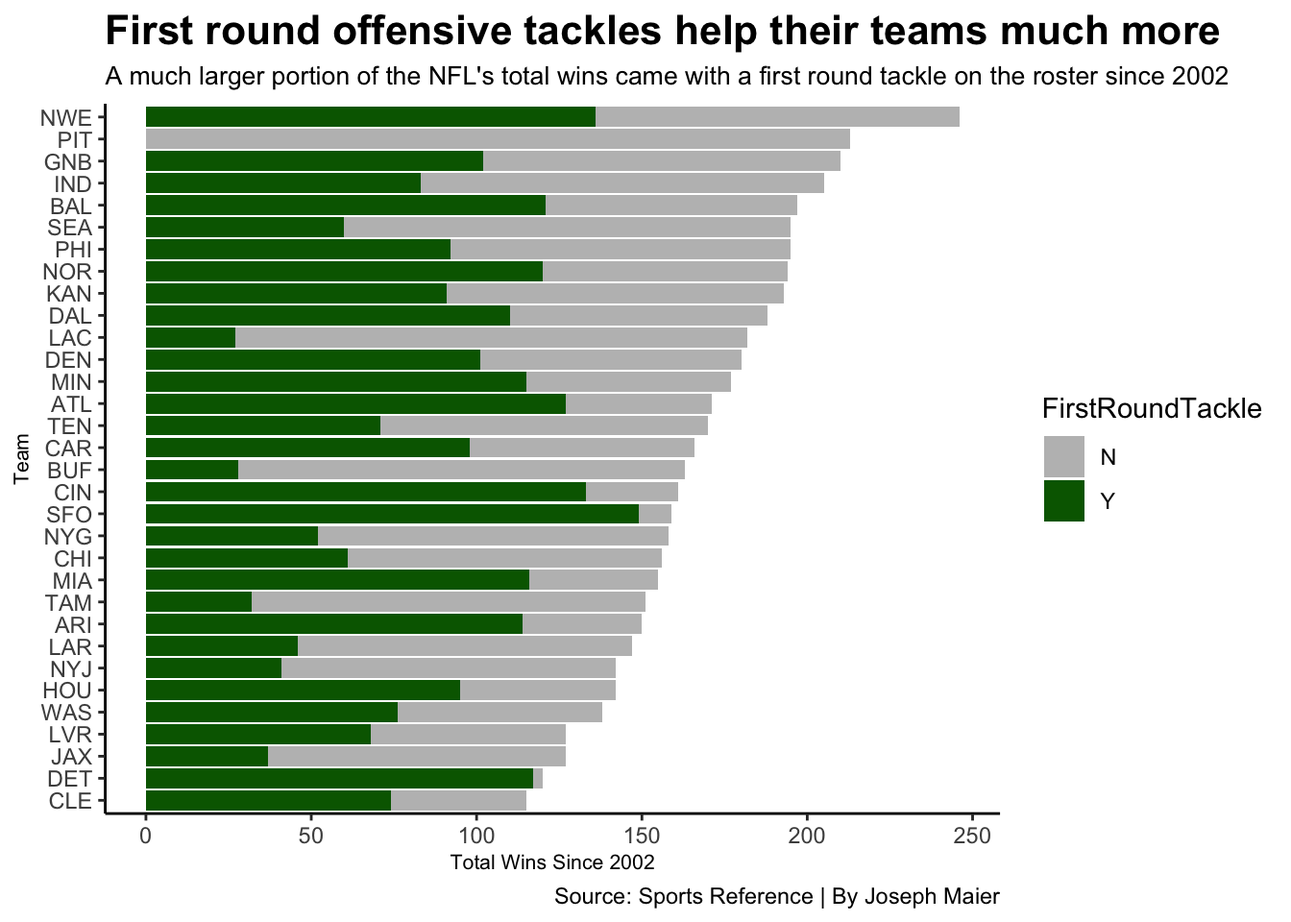
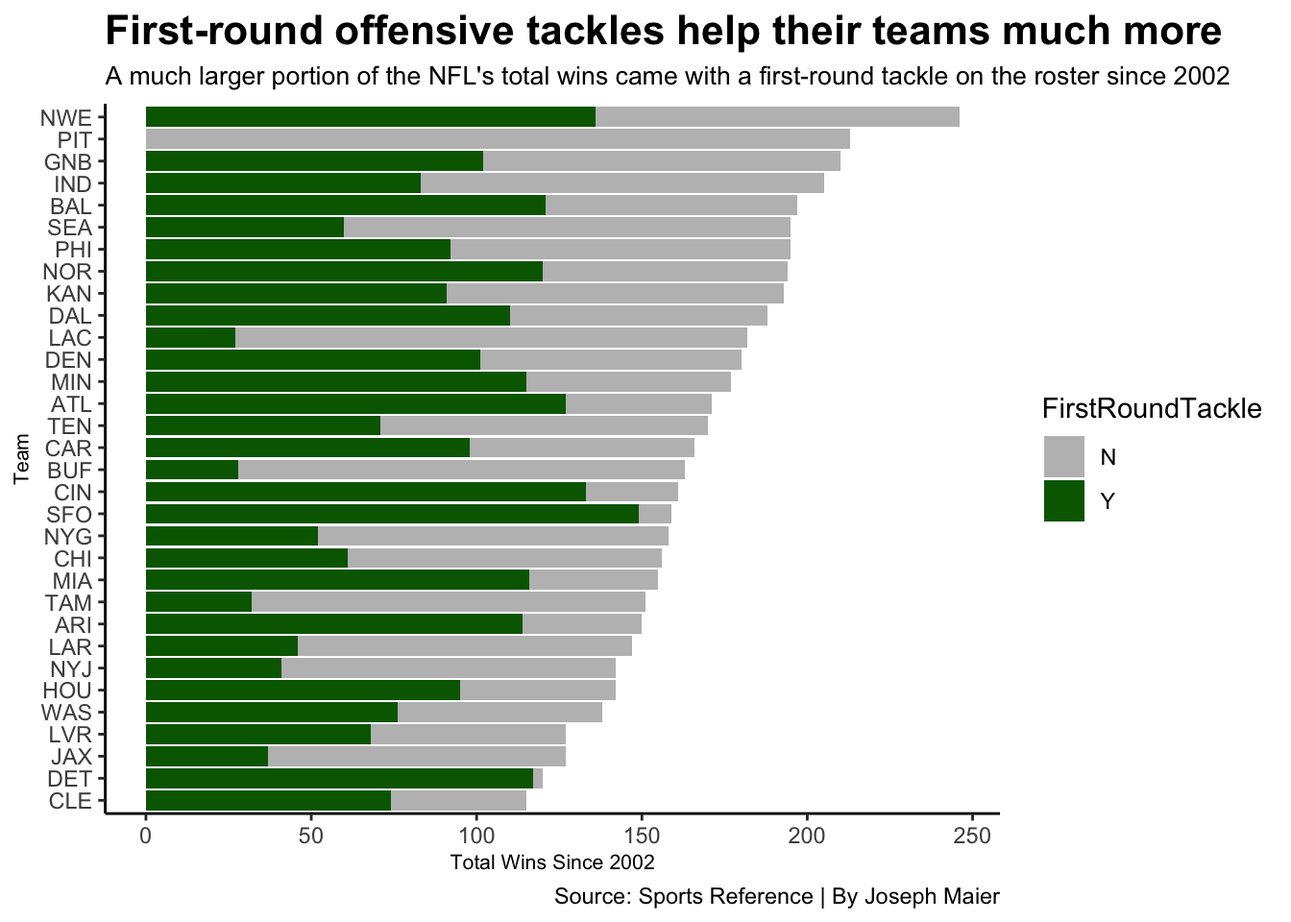
Final

Changed region(s): [[0.1562, 0.0, 0.9688, 0.0938]]

diff --git a/posts/first-round-running-backs/index.html b/posts/first-round-running-backs/index.html
@@ -9,7 +9,7 @@
 <meta name="author" content="Joseph Maier">
 <meta name="dcterms.date" content="2022-04-16">
 
-<title>Joseph Maier’s Blog - Are first round running backs worth the price?</title>
+<title>Joseph Maier’s Blog - Are first-round running backs worth the price?</title>
 <style>
 code{white-space: pre-wrap;}
 span.smallcaps{font-variant: small-caps;}
@@ -179,7 +179,7 @@ code span.wa { color: #60a0b0; font-weight: bold; font-style: italic; } /* Warni
 
 <header id="title-block-header" class="quarto-title-block default">
 <div class="quarto-title">
-<h1 class="title">Are first round running backs worth the price?</h1>
+<h1 class="title">Are first-round running backs worth the price?</h1>
   <div class="quarto-categories">
     <div class="quarto-category">nfl</div>
     <div class="quarto-category">runningbacks</div>
@@ -211,11 +211,11 @@ code span.wa { color: #60a0b0; font-weight: bold; font-style: italic; } /* Warni
 
 </header>
 
-<p>With the NFL draft just weeks away, it’s officially mock draft season. It’s also that time of year where both fans and so-called draft experts debate the respective value of each position.</p>
-<p>Over the last several years, first round running backs in particular have been the object of much discussion. Is drafting a running back in the first round worth it? The answer has largely been no. But just how true is that assumption? Is it based measurable statistics?</p>
+<p>With the NFL draft just weeks away, it’s officially mock draft season. It’s also that time of year when both fans and so-called draft experts debate the respective value of each position.</p>
+<p>Over the last several years, first-round running backs in particular have been the object of much discussion. Is drafting a running back in the first round worth it? The answer has largely been no. But just how true is that assumption? Is it based on measurable statistics?</p>
 <p>Let’s dive into some data to see for ourselves.</p>
-<p>First off, when talking about first round running backs, we’ll only focus on players playing on the team that originally drafted them. Once players go elsewhere, the organization that drafted them no longer reaps the benefits of using a pick on them.</p>
-<p>Why do NFL teams care about drafting good player? Winning games of course. So does drafting a running back in the first round directly correlate to victories? Not so much.</p>
+<p>First off, when talking about first-round running backs, we’ll only focus on players playing on the team that originally drafted them. Once players go elsewhere, their original team no longer reaps the benefits of using a pick on them.</p>
+<p>Why do NFL teams care about drafting good players? Winning games of course. So does drafting a running back in the first round directly correlate to victories? Not so much.</p>
 <div class="cell">
 <details>
 <summary>Code</summary>
@@ -229,13 +229,13 @@ code span.wa { color: #60a0b0; font-weight: bold; font-style: italic; } /* Warni
 <span id="cb1-8"><a href="#cb1-8" aria-hidden="true" tabindex="-1"></a><span class="fu">ggplot</span>() <span class="sc">+</span> </span>
 <span id="cb1-9"><a href="#cb1-9" aria-hidden="true" tabindex="-1"></a>  <span class="fu">geom_bar</span>(<span class="at">data=</span>draft, <span class="fu">aes</span>(<span class="at">x=</span><span class="fu">reorder</span>(Team, W), <span class="at">weight=</span>W, <span class="at">fill=</span>FirstRoundRB)) <span class="sc">+</span> </span>
 <span id="cb1-10"><a href="#cb1-10" aria-hidden="true" tabindex="-1"></a>  <span class="fu">coord_flip</span>() <span class="sc">+</span></span>
-<span id="cb1-11"><a href="#cb1-11" aria-hidden="true" tabindex="-1"></a>  <span class="fu">scale_fill_manual</span>(<span class="at">values=</span><span class="fu">c</span>(<span class="st">"grey"</span>, <span class="st">"blue"</span>)) <span class="sc">+</span></span>
+<span id="cb1-11"><a href="#cb1-11" aria-hidden="true" tabindex="-1"></a>  <span class="fu">scale_fill_manual</span>(<span class="at">values=</span><span class="fu">c</span>(<span class="st">"grey"</span>, <span class="st">"#0047AB"</span>)) <span class="sc">+</span></span>
 <span id="cb1-12"><a href="#cb1-12" aria-hidden="true" tabindex="-1"></a>    <span class="fu">labs</span>(</span>
 <span id="cb1-13"><a href="#cb1-13" aria-hidden="true" tabindex="-1"></a>    <span class="at">x=</span><span class="st">"Team"</span>, </span>
 <span id="cb1-14"><a href="#cb1-14" aria-hidden="true" tabindex="-1"></a>    <span class="at">y=</span><span class="st">"Total Wins Since 2002"</span>, </span>
-<span id="cb1-15"><a href="#cb1-15" aria-hidden="true" tabindex="-1"></a>       <span class="at">title=</span><span class="st">"First round running backs rarely contribute to winning teams"</span>, </span>
-<span id="cb1-16"><a href="#cb1-16" aria-hidden="true" tabindex="-1"></a>    <span class="at">subtitle=</span><span class="st">"Since 2002, only six NFL teams have had a first round running back they drafted on their roster in over </span></span>
-<span id="cb1-17"><a href="#cb1-17" aria-hidden="true" tabindex="-1"></a><span class="st">half of their total wins."</span>, </span>
+<span id="cb1-15"><a href="#cb1-15" aria-hidden="true" tabindex="-1"></a>       <span class="at">title=</span><span class="st">"First-round running backs rarely contribute to winning teams"</span>, </span>
+<span id="cb1-16"><a href="#cb1-16" aria-hidden="true" tabindex="-1"></a>    <span class="at">subtitle=</span><span class="st">"Since 2002, only six NFL teams have had a first-round running back that they drafted on their roster in over </span></span>
+<span id="cb1-17"><a href="#cb1-17" aria-hidden="true" tabindex="-1"></a><span class="st">half their total wins."</span>, </span>
 <span id="cb1-18"><a href="#cb1-18" aria-hidden="true" tabindex="-1"></a>    <span class="at">caption=</span><span class="st">"Source: Sports Reference | By Joseph Maier"</span></span>
 <span id="cb1-19"><a href="#cb1-19" aria-hidden="true" tabindex="-1"></a>    ) <span class="sc">+</span> <span class="fu">theme_classic</span>() <span class="sc">+</span>  <span class="fu">theme</span>(</span>
 <span id="cb1-20"><a href="#cb1-20" aria-hidden="true" tabindex="-1"></a>    <span class="at">plot.title =</span> <span class="fu">element_text</span>(<span class="at">size =</span> <span class="dv">16</span>, <span class="at">face =</span> <span class="st">"bold"</span>),</span>
@@ -248,8 +248,8 @@ code span.wa { color: #60a0b0; font-weight: bold; font-style: italic; } /* Warni
 <p><img src="index_files/figure-html/unnamed-chunk-1-1.png" class="img-fluid" width="672"></p>
 </div>
 </div>
-<p>If you want to win games, running back may not be the way to go in the first round. Notice how most of the good teams over the last 20 years didn’t roster a first round running back often.</p>
-<p>So what other position should we prioritize? Quarterback is obvious, but we don’t want to be drafting one of those every year. Let’s see how offensive tackles stack up compared to running backs in the winning department.</p>
+<p>If you want to win games, running back may not be the way to go in the first round. Notice how most of the best teams over the last 20 years rarely rostered a first-round running back.</p>
+<p>So what other position should we prioritize instead? Quarterback is obvious, but we don’t want to be drafting one of those every year. Let’s see how first-round offensive tackles stack up in the winning department.</p>
 <div class="cell">
 <details>
 <summary>Code</summary>
@@ -260,8 +260,8 @@ code span.wa { color: #60a0b0; font-weight: bold; font-style: italic; } /* Warni
 <span id="cb2-5"><a href="#cb2-5" aria-hidden="true" tabindex="-1"></a>    <span class="fu">labs</span>(</span>
 <span id="cb2-6"><a href="#cb2-6" aria-hidden="true" tabindex="-1"></a>    <span class="at">x=</span><span class="st">"Team"</span>, </span>
 <span id="cb2-7"><a href="#cb2-7" aria-hidden="true" tabindex="-1"></a>    <span class="at">y=</span><span class="st">"Total Wins Since 2002"</span>, </span>
-<span id="cb2-8"><a href="#cb2-8" aria-hidden="true" tabindex="-1"></a>       <span class="at">title=</span><span class="st">"First round offensive tackles help their teams much more"</span>, </span>
-<span id="cb2-9"><a href="#cb2-9" aria-hidden="true" tabindex="-1"></a>    <span class="at">subtitle=</span><span class="st">"A much larger portion of the NFL's total wins came with a first round tackle on the roster since 2002"</span>, </span>
+<span id="cb2-8"><a href="#cb2-8" aria-hidden="true" tabindex="-1"></a>       <span class="at">title=</span><span class="st">"First-round offensive tackles help their teams much more"</span>, </span>
+<span id="cb2-9"><a href="#cb2-9" aria-hidden="true" tabindex="-1"></a>    <span class="at">subtitle=</span><span class="st">"A much larger portion of the NFL's total wins came with a first-round tackle on the roster since 2002"</span>, </span>
 <span id="cb2-10"><a href="#cb2-10" aria-hidden="true" tabindex="-1"></a>    <span class="at">caption=</span><span class="st">"Source: Sports Reference | By Joseph Maier"</span></span>
 <span id="cb2-11"><a href="#cb2-11" aria-hidden="true" tabindex="-1"></a>    ) <span class="sc">+</span> <span class="fu">theme_classic</span>() <span class="sc">+</span>  <span class="fu">theme</span>(</span>
 <span id="cb2-12"><a href="#cb2-12" aria-hidden="true" tabindex="-1"></a>    <span class="at">plot.title =</span> <span class="fu">element_text</span>(<span class="at">size =</span> <span class="dv">16</span>, <span class="at">face =</span> <span class="st">"bold"</span>),</span>
@@ -274,8 +274,8 @@ code span.wa { color: #60a0b0; font-weight: bold; font-style: italic; } /* Warni
 <p><img src="index_files/figure-html/unnamed-chunk-2-1.png" class="img-fluid" width="672"></p>
 </div>
 </div>
-<p>First round big men up front play for winning teams much more often. But it is a team sport, and one position can’t directly decide the outcome of games. The more a player plays, though, the more they can help their team win.</p>
-<p>So how often are first round running backs starters on their team? Surprisingly, more as of late.</p>
+<p>First-round big men play for winning teams much more often. But it’s a team sport, and one position can’t directly decide the outcome of games. The more a player plays, though, the more they can benefit their team.</p>
+<p>So how often are first-round running backs starters on their teams? Surprisingly, more often as of late.</p>
 <div class="cell">
 <details>
 <summary>Code</summary>
@@ -328,7 +328,7 @@ code span.wa { color: #60a0b0; font-weight: bold; font-style: italic; } /* Warni
 <p><img src="index_files/figure-html/unnamed-chunk-3-1.png" class="img-fluid" width="672"></p>
 </div>
 </div>
-<p>The younger running backs have been consistent starters, but it’s probably too early to judge their full careers yet. If the retired players tell us anything, we can expect first round running backs to start an average around 50% of their total seasons. So how do offensive tackles compare?</p>
+<p>The younger running backs have been consistent starters, but it’s probably too early to judge their full careers yet. If the retired players tell us anything, we can expect first-round running backs to start around 50% of their total seasons on average. Let’s compare that to offensive tackles.</p>
 <div class="cell">
 <details>
 <summary>Code</summary>
@@ -359,8 +359,8 @@ code span.wa { color: #60a0b0; font-weight: bold; font-style: italic; } /* Warni
 <p><img src="index_files/figure-html/unnamed-chunk-4-1.png" class="img-fluid" width="672"></p>
 </div>
 </div>
-<p>The predictive model is trending down, but the data is much more consistent. Look how much higher the retired tackles cluster is here than the previous tackle. If you want a player that is going to be a starter in most of his seasons, offensive tackle is the way to go.</p>
-<p>But that doesn’t give us the whole story. What if someone played just one season, but was a starter during it. That wouldn’t justify the first round selection.</p>
+<p>The predictive model is trending down, but the data is much more consistent. Look how much higher the retired tackles cluster is here than in the previous chart. If you want a player who will be a starter in most of his total seasons, tackle is the way to go.</p>
+<p>But that doesn’t give us the whole story. What if someone played just one season, but was a starter during it? That wouldn’t justify a first-round selection.</p>
 <p>So let’s strip this data down solely for total seasons being a starter.</p>
 <div class="cell">
 <details>
@@ -376,9 +376,9 @@ code span.wa { color: #60a0b0; font-weight: bold; font-style: italic; } /* Warni
 <span id="cb6-9"><a href="#cb6-9" aria-hidden="true" tabindex="-1"></a>  <span class="fu">labs</span>(</span>
 <span id="cb6-10"><a href="#cb6-10" aria-hidden="true" tabindex="-1"></a>    <span class="at">x=</span><span class="st">"Draft Year"</span>, </span>
 <span id="cb6-11"><a href="#cb6-11" aria-hidden="true" tabindex="-1"></a>    <span class="at">y=</span><span class="st">"Seasons being a Starter"</span>, </span>
-<span id="cb6-12"><a href="#cb6-12" aria-hidden="true" tabindex="-1"></a>    <span class="at">title=</span><span class="st">"Drafting a first round offensive tackle is the safer bet"</span>, </span>
-<span id="cb6-13"><a href="#cb6-13" aria-hidden="true" tabindex="-1"></a>    <span class="at">subtitle=</span><span class="st">"Among players drafted between 2002-2015, only five first round running backs </span></span>
-<span id="cb6-14"><a href="#cb6-14" aria-hidden="true" tabindex="-1"></a><span class="st">started more seasons than the average for first round offensive tackles"</span>, </span>
+<span id="cb6-12"><a href="#cb6-12" aria-hidden="true" tabindex="-1"></a>    <span class="at">title=</span><span class="st">"Drafting a first-round offensive tackle is the safer bet"</span>, </span>
+<span id="cb6-13"><a href="#cb6-13" aria-hidden="true" tabindex="-1"></a>    <span class="at">subtitle=</span><span class="st">"Among players drafted between 2002-2015, only five first-round running backs </span></span>
+<span id="cb6-14"><a href="#cb6-14" aria-hidden="true" tabindex="-1"></a><span class="st">started more seasons than the average for first-round offensive tackles"</span>, </span>
 <span id="cb6-15"><a href="#cb6-15" aria-hidden="true" tabindex="-1"></a>    <span class="at">caption=</span><span class="st">"Source: Sports Reference | Joseph Maier"</span></span>
 <span id="cb6-16"><a href="#cb6-16" aria-hidden="true" tabindex="-1"></a>    ) <span class="sc">+</span> <span class="fu">theme_classic</span>() <span class="sc">+</span>  <span class="fu">theme</span>(</span>
 <span id="cb6-17"><a href="#cb6-17" aria-hidden="true" tabindex="-1"></a>    <span class="at">plot.title =</span> <span class="fu">element_text</span>(<span class="at">size =</span> <span class="dv">16</span>, <span class="at">face =</span> <span class="st">"bold"</span>),</span>
@@ -391,6 +391,80 @@ code span.wa { color: #60a0b0; font-weight: bold; font-style: italic; } /* Warni
 <p><img src="index_files/figure-html/unnamed-chunk-5-1.png" class="img-fluid" width="672"></p>
 </div>
 </div>
+<p>Tackles are starters for more seasons on average, nearly a 2 1/2 season advantage over first-round running backs.</p>
+<p>Enough about tackles, though, we’re focused on running backs. We need running backs on our roster, so what round should we draft them in?</p>
+<div class="cell">
+<details>
+<summary>Code</summary>
+<div class="sourceCode cell-code" id="cb7"><pre class="sourceCode r code-with-copy"><code class="sourceCode r"><span id="cb7-1"><a href="#cb7-1" aria-hidden="true" tabindex="-1"></a><span class="fu">library</span>(tidyverse)</span>
+<span id="cb7-2"><a href="#cb7-2" aria-hidden="true" tabindex="-1"></a><span class="fu">library</span>(ggrepel)</span>
+<span id="cb7-3"><a href="#cb7-3" aria-hidden="true" tabindex="-1"></a><span class="fu">library</span>(ggalt)</span>
+<span id="cb7-4"><a href="#cb7-4" aria-hidden="true" tabindex="-1"></a><span class="fu">library</span>(ggbeeswarm)</span>
+<span id="cb7-5"><a href="#cb7-5" aria-hidden="true" tabindex="-1"></a><span class="fu">library</span>(gt)</span>
+<span id="cb7-6"><a href="#cb7-6" aria-hidden="true" tabindex="-1"></a></span>
+<span id="cb7-7"><a href="#cb7-7" aria-hidden="true" tabindex="-1"></a>draft <span class="ot">&lt;-</span> <span class="fu">read_csv</span>(<span class="st">"nfldraftrbtckl.csv"</span>) <span class="sc">%&gt;%</span> <span class="fu">filter</span>(Season<span class="sc">&gt;</span><span class="dv">2001</span>)</span>
+<span id="cb7-8"><a href="#cb7-8" aria-hidden="true" tabindex="-1"></a>runningbacks <span class="ot">&lt;-</span> <span class="fu">read_csv</span>(<span class="st">"draft.csv"</span>) <span class="sc">%&gt;%</span> <span class="fu">mutate</span>(<span class="at">YearsPlayed =</span> (To<span class="sc">-</span>From <span class="sc">+</span> <span class="dv">1</span>)) <span class="sc">%&gt;%</span> <span class="fu">filter</span>(YearsPlayed<span class="sc">&gt;</span><span class="dv">0</span>)</span>
+<span id="cb7-9"><a href="#cb7-9" aria-hidden="true" tabindex="-1"></a>beeswarmrb <span class="ot">&lt;-</span> runningbacks <span class="sc">%&gt;%</span> <span class="fu">filter</span>(St<span class="sc">&gt;</span><span class="dv">0</span>)</span>
+<span id="cb7-10"><a href="#cb7-10" aria-hidden="true" tabindex="-1"></a></span>
+<span id="cb7-11"><a href="#cb7-11" aria-hidden="true" tabindex="-1"></a>avg1RB <span class="ot">&lt;-</span> runningbacks <span class="sc">%&gt;%</span> </span>
+<span id="cb7-12"><a href="#cb7-12" aria-hidden="true" tabindex="-1"></a>  <span class="fu">ungroup</span>() <span class="sc">%&gt;%</span> <span class="fu">filter</span>(Rnd <span class="sc">==</span> <span class="dv">1</span>) <span class="sc">%&gt;%</span> </span>
+<span id="cb7-13"><a href="#cb7-13" aria-hidden="true" tabindex="-1"></a>  <span class="fu">mutate</span>(<span class="at">Rnd1avg =</span> <span class="fu">mean</span>(YearsPlayed)) </span>
+<span id="cb7-14"><a href="#cb7-14" aria-hidden="true" tabindex="-1"></a>  </span>
+<span id="cb7-15"><a href="#cb7-15" aria-hidden="true" tabindex="-1"></a>avg2RB <span class="ot">&lt;-</span> runningbacks <span class="sc">%&gt;%</span> </span>
+<span id="cb7-16"><a href="#cb7-16" aria-hidden="true" tabindex="-1"></a>  <span class="fu">ungroup</span>() <span class="sc">%&gt;%</span> <span class="fu">filter</span>(Rnd <span class="sc">==</span> <span class="dv">2</span>) <span class="sc">%&gt;%</span> </span>
+<span id="cb7-17"><a href="#cb7-17" aria-hidden="true" tabindex="-1"></a>  <span class="fu">mutate</span>(<span class="at">Rnd2avg =</span> <span class="fu">mean</span>(YearsPlayed)) </span>
+<span id="cb7-18"><a href="#cb7-18" aria-hidden="true" tabindex="-1"></a></span>
+<span id="cb7-19"><a href="#cb7-19" aria-hidden="true" tabindex="-1"></a>avg3RB <span class="ot">&lt;-</span> runningbacks <span class="sc">%&gt;%</span> </span>
+<span id="cb7-20"><a href="#cb7-20" aria-hidden="true" tabindex="-1"></a>  <span class="fu">ungroup</span>() <span class="sc">%&gt;%</span> <span class="fu">filter</span>(Rnd <span class="sc">==</span> <span class="dv">3</span>) <span class="sc">%&gt;%</span> </span>
+<span id="cb7-21"><a href="#cb7-21" aria-hidden="true" tabindex="-1"></a>  <span class="fu">mutate</span>(<span class="at">Rnd3avg =</span> <span class="fu">mean</span>(YearsPlayed)) </span>
+<span id="cb7-22"><a href="#cb7-22" aria-hidden="true" tabindex="-1"></a></span>
+<span id="cb7-23"><a href="#cb7-23" aria-hidden="true" tabindex="-1"></a>avg4RB <span class="ot">&lt;-</span> runningbacks <span class="sc">%&gt;%</span> </span>
+<span id="cb7-24"><a href="#cb7-24" aria-hidden="true" tabindex="-1"></a>  <span class="fu">ungroup</span>() <span class="sc">%&gt;%</span> <span class="fu">filter</span>(Rnd <span class="sc">==</span> <span class="dv">4</span>) <span class="sc">%&gt;%</span> </span>
+<span id="cb7-25"><a href="#cb7-25" aria-hidden="true" tabindex="-1"></a>  <span class="fu">mutate</span>(<span class="at">Rnd4avg =</span> <span class="fu">mean</span>(YearsPlayed)) </span>
+<span id="cb7-26"><a href="#cb7-26" aria-hidden="true" tabindex="-1"></a></span>
+<span id="cb7-27"><a href="#cb7-27" aria-hidden="true" tabindex="-1"></a>avg5RB <span class="ot">&lt;-</span> runningbacks <span class="sc">%&gt;%</span> </span>
+<span id="cb7-28"><a href="#cb7-28" aria-hidden="true" tabindex="-1"></a>  <span class="fu">ungroup</span>() <span class="sc">%&gt;%</span> <span class="fu">filter</span>(Rnd <span class="sc">==</span> <span class="dv">5</span>) <span class="sc">%&gt;%</span> </span>
+<span id="cb7-29"><a href="#cb7-29" aria-hidden="true" tabindex="-1"></a>  <span class="fu">mutate</span>(<span class="at">Rnd5avg =</span> <span class="fu">mean</span>(YearsPlayed)) </span>
+<span id="cb7-30"><a href="#cb7-30" aria-hidden="true" tabindex="-1"></a></span>
+<span id="cb7-31"><a href="#cb7-31" aria-hidden="true" tabindex="-1"></a>avg6RB <span class="ot">&lt;-</span> runningbacks <span class="sc">%&gt;%</span> </span>
+<span id="cb7-32"><a href="#cb7-32" aria-hidden="true" tabindex="-1"></a>  <span class="fu">ungroup</span>() <span class="sc">%&gt;%</span> <span class="fu">filter</span>(Rnd <span class="sc">==</span> <span class="dv">6</span>) <span class="sc">%&gt;%</span> </span>
+<span id="cb7-33"><a href="#cb7-33" aria-hidden="true" tabindex="-1"></a>  <span class="fu">mutate</span>(<span class="at">Rnd6avg =</span> <span class="fu">mean</span>(YearsPlayed)) </span>
+<span id="cb7-34"><a href="#cb7-34" aria-hidden="true" tabindex="-1"></a></span>
+<span id="cb7-35"><a href="#cb7-35" aria-hidden="true" tabindex="-1"></a>avg7RB <span class="ot">&lt;-</span> runningbacks <span class="sc">%&gt;%</span> </span>
+<span id="cb7-36"><a href="#cb7-36" aria-hidden="true" tabindex="-1"></a>  <span class="fu">ungroup</span>() <span class="sc">%&gt;%</span> <span class="fu">filter</span>(Rnd <span class="sc">==</span> <span class="dv">7</span>) <span class="sc">%&gt;%</span> </span>
+<span id="cb7-37"><a href="#cb7-37" aria-hidden="true" tabindex="-1"></a>  <span class="fu">mutate</span>(<span class="at">Rnd7avg =</span> <span class="fu">mean</span>(YearsPlayed)) </span>
+<span id="cb7-38"><a href="#cb7-38" aria-hidden="true" tabindex="-1"></a></span>
+<span id="cb7-39"><a href="#cb7-39" aria-hidden="true" tabindex="-1"></a><span class="fu">ggplot</span>() <span class="sc">+</span> </span>
+<span id="cb7-40"><a href="#cb7-40" aria-hidden="true" tabindex="-1"></a></span>
+<span id="cb7-41"><a href="#cb7-41" aria-hidden="true" tabindex="-1"></a> <span class="fu">geom_beeswarm</span>(<span class="at">data=</span>beeswarmrb, <span class="fu">aes</span>(<span class="at">x=</span>Rnd, <span class="at">y=</span>YearsPlayed), <span class="at">color=</span><span class="st">"grey"</span>) <span class="sc">+</span></span>
+<span id="cb7-42"><a href="#cb7-42" aria-hidden="true" tabindex="-1"></a>  <span class="fu">geom_point</span>(<span class="at">data=</span>avg1RB, <span class="fu">aes</span>(<span class="at">x=</span>Rnd, <span class="at">y=</span>Rnd1avg), <span class="at">color=</span><span class="st">"blue"</span>) <span class="sc">+</span></span>
+<span id="cb7-43"><a href="#cb7-43" aria-hidden="true" tabindex="-1"></a>   <span class="fu">geom_point</span>(<span class="at">data=</span>avg2RB, <span class="fu">aes</span>(<span class="at">x=</span>Rnd, <span class="at">y=</span>Rnd2avg ), <span class="at">color=</span><span class="st">"blue"</span>) <span class="sc">+</span></span>
+<span id="cb7-44"><a href="#cb7-44" aria-hidden="true" tabindex="-1"></a>   <span class="fu">geom_point</span>(<span class="at">data=</span>avg3RB, <span class="fu">aes</span>(<span class="at">x=</span>Rnd, <span class="at">y=</span>Rnd3avg ), <span class="at">color=</span><span class="st">"blue"</span>) <span class="sc">+</span></span>
+<span id="cb7-45"><a href="#cb7-45" aria-hidden="true" tabindex="-1"></a>   <span class="fu">geom_point</span>(<span class="at">data=</span>avg4RB, <span class="fu">aes</span>(<span class="at">x=</span>Rnd, <span class="at">y=</span>Rnd4avg ), <span class="at">color=</span><span class="st">"blue"</span>) <span class="sc">+</span></span>
+<span id="cb7-46"><a href="#cb7-46" aria-hidden="true" tabindex="-1"></a>   <span class="fu">geom_point</span>(<span class="at">data=</span>avg5RB, <span class="fu">aes</span>(<span class="at">x=</span>Rnd, <span class="at">y=</span>Rnd5avg ), <span class="at">color=</span><span class="st">"blue"</span>) <span class="sc">+</span></span>
+<span id="cb7-47"><a href="#cb7-47" aria-hidden="true" tabindex="-1"></a>   <span class="fu">geom_point</span>(<span class="at">data=</span>avg6RB, <span class="fu">aes</span>(<span class="at">x=</span>Rnd, <span class="at">y=</span>Rnd6avg ), <span class="at">color=</span><span class="st">"blue"</span>) <span class="sc">+</span></span>
+<span id="cb7-48"><a href="#cb7-48" aria-hidden="true" tabindex="-1"></a>   <span class="fu">geom_point</span>(<span class="at">data=</span>avg7RB, <span class="fu">aes</span>(<span class="at">x=</span>Rnd, <span class="at">y=</span>Rnd7avg ), <span class="at">color=</span><span class="st">"blue"</span>) <span class="sc">+</span></span>
+<span id="cb7-49"><a href="#cb7-49" aria-hidden="true" tabindex="-1"></a></span>
+<span id="cb7-50"><a href="#cb7-50" aria-hidden="true" tabindex="-1"></a> <span class="fu">labs</span>(</span>
+<span id="cb7-51"><a href="#cb7-51" aria-hidden="true" tabindex="-1"></a>    <span class="at">x=</span><span class="st">"Draft Round"</span>, </span>
+<span id="cb7-52"><a href="#cb7-52" aria-hidden="true" tabindex="-1"></a>    <span class="at">y=</span><span class="st">"Years Played"</span>, </span>
+<span id="cb7-53"><a href="#cb7-53" aria-hidden="true" tabindex="-1"></a>    <span class="at">title=</span><span class="st">"First round running backs don't last much longer"</span>, </span>
+<span id="cb7-54"><a href="#cb7-54" aria-hidden="true" tabindex="-1"></a>    <span class="at">subtitle=</span><span class="st">"Since 2002, there's less than a four year difference in average career length between first round</span></span>
+<span id="cb7-55"><a href="#cb7-55" aria-hidden="true" tabindex="-1"></a><span class="st">running backs and seventh round running backs"</span>, </span>
+<span id="cb7-56"><a href="#cb7-56" aria-hidden="true" tabindex="-1"></a>    <span class="at">caption=</span><span class="st">""</span></span>
+<span id="cb7-57"><a href="#cb7-57" aria-hidden="true" tabindex="-1"></a>    ) <span class="sc">+</span> <span class="fu">theme_classic</span>() <span class="sc">+</span>  <span class="fu">theme</span>(</span>
+<span id="cb7-58"><a href="#cb7-58" aria-hidden="true" tabindex="-1"></a>    <span class="at">plot.title =</span> <span class="fu">element_text</span>(<span class="at">size =</span> <span class="dv">16</span>, <span class="at">face =</span> <span class="st">"bold"</span>),</span>
+<span id="cb7-59"><a href="#cb7-59" aria-hidden="true" tabindex="-1"></a>    <span class="at">axis.title =</span> <span class="fu">element_text</span>(<span class="at">size =</span> <span class="dv">8</span>), </span>
+<span id="cb7-60"><a href="#cb7-60" aria-hidden="true" tabindex="-1"></a>    <span class="at">plot.subtitle =</span> <span class="fu">element_text</span>(<span class="at">size=</span><span class="dv">10</span>), </span>
+<span id="cb7-61"><a href="#cb7-61" aria-hidden="true" tabindex="-1"></a>    <span class="at">panel.grid.minor =</span> <span class="fu">element_blank</span>()</span>
+<span id="cb7-62"><a href="#cb7-62" aria-hidden="true" tabindex="-1"></a>    )</span></code><button title="Copy to Clipboard" class="code-copy-button"><i class="bi"></i></button></pre></div>
+</details>
+<div class="cell-output-display">
+<p><img src="index_files/figure-html/unnamed-chunk-6-1.png" class="img-fluid" width="672"></p>
+</div>
+</div>
+<p>To be fair, there’s a noticeable drop off in average career length from round one to round two. On average, a running back will play .5 fewer years per round after the first he’s drafted in.</p>
+<p>Does that justify drafting a running back in the first round? That’s up to you. But it’s certainly not as bad of a decision as many have made it seem.</p>
 
 
 

diff --git a/index.html b/index.html
@@ -158,7 +158,7 @@ ul.task-list li input[type="checkbox"] {
 <!-- margin-sidebar -->
     <div id="quarto-margin-sidebar" class="sidebar margin-sidebar">
         
-    <h5 class="quarto-listing-category-title">Categories</h5><div class="quarto-listing-category category-default"><div class="category" data-category="">All <span class="quarto-category-count">(3)</span></div><div class="category" data-category="analysis">analysis <span class="quarto-category-count">(1)</span></div><div class="category" data-category="code">code <span class="quarto-category-count">(1)</span></div><div class="category" data-category="draft">draft <span class="quarto-category-count">(1)</span></div><div class="category" data-category="news">news <span class="quarto-category-count">(2)</span></div><div class="category" data-category="nfl">nfl <span class="quarto-category-count">(1)</span></div><div class="category" data-category="runningbacks">runningbacks <span class="quarto-category-count">(1)</span></div></div></div>
+    <h5 class="quarto-listing-category-title">Categories</h5><div class="quarto-listing-category category-default"><div class="category" data-category="">All <span class="quarto-category-count">(1)</span></div><div class="category" data-category="news">news <span class="quarto-category-count">(1)</span></div></div></div>
 <!-- main -->
 <main class="content quarto-banner-title-block column-page-left" id="quarto-document-content">
 
@@ -171,48 +171,7 @@ ul.task-list li input[type="checkbox"] {
 
 <div class="quarto-listing quarto-listing-container-default" id="listing-listing">
 <div class="list quarto-listing-default">
-<div class="quarto-post image-right" data-index="0" data-categories="news,code,analysis" data-listing-date-sort="1679288400000" data-listing-file-modified-sort="1681702032653" data-listing-reading-time-sort="0.045">
-<div class="thumbnail">
-<p><a href="./posts/post-with-code/index.html"> <img src="./posts/post-with-code/image.jpg" class="thumnail-image"> </a></p>
-</div>
-<div class="body">
-<a href="./posts/post-with-code/index.html">
-<h3 class="no-anchor listing-title">
-Post With Code
-</h3>
-<div class="listing-subtitle">
-
-</div>
-</a>
-<div class="listing-categories">
-<div class="listing-category" onclick="window.quartoListingCategory('news'); return false;">
-news
-</div>
-<div class="listing-category" onclick="window.quartoListingCategory('code'); return false;">
-code
-</div>
-<div class="listing-category" onclick="window.quartoListingCategory('analysis'); return false;">
-analysis
-</div>
-</div>
-<a href="./posts/post-with-code/index.html">
-<div class="listing-description">
-This is a post with executable code.
-</div>
-</a>
-</div>
-<div class="metadata">
-<a href="./posts/post-with-code/index.html">
-<div class="listing-date">
-Mar 20, 2023
-</div>
-<div class="listing-author">
-Harlow Malloc
-</div>
-</a>
-</div>
-</div>
-<div class="quarto-post image-right" data-index="1" data-categories="news" data-listing-date-sort="1679029200000" data-listing-file-modified-sort="1679338713730" data-listing-reading-time-sort="0.16">
+<div class="quarto-post image-right" data-index="0" data-categories="news" data-listing-date-sort="1679029200000" data-listing-file-modified-sort="1679338713730" data-listing-reading-time-sort="0.16">
 <div class="thumbnail">
 <p><a href="./posts/welcome/index.html"> <img src="./posts/welcome/thumbnail.jpg" class="thumnail-image"> </a></p>
 </div>
@@ -243,47 +202,6 @@ Mar 17, 2023
 </div>
 <div class="listing-author">
 Tristan O’Malley
-</div>
-</a>
-</div>
-</div>
-<div class="quarto-post image-right" data-index="2" data-categories="nfl,runningbacks,draft" data-listing-date-sort="1650085200000" data-listing-file-modified-sort="1681707996671" data-listing-reading-time-sort="6.46">
-<div class="thumbnail">
-<p><a href="./posts/first-round-running-backs/index.html"> <img src="./posts/first-round-running-backs/image.png" class="thumnail-image"> </a></p>
-</div>
-<div class="body">
-<a href="./posts/first-round-running-backs/index.html">
-<h3 class="no-anchor listing-title">
-Are first round running backs worth the price?
-</h3>
-<div class="listing-subtitle">
-
-</div>
-</a>
-<div class="listing-categories">
-<div class="listing-category" onclick="window.quartoListingCategory('nfl'); return false;">
-nfl
-</div>
-<div class="listing-category" onclick="window.quartoListingCategory('runningbacks'); return false;">
-runningbacks
-</div>
-<div class="listing-category" onclick="window.quartoListingCategory('draft'); return false;">
-draft
-</div>
-</div>
-<a href="./posts/first-round-running-backs/index.html">
-<div class="listing-description">
-With the…
-</div>
-</a>
-</div>
-<div class="metadata">
-<a href="./posts/first-round-running-backs/index.html">
-<div class="listing-date">
-Apr 16, 2022
-</div>
-<div class="listing-author">
-Joseph Maier
 </div>
 </a>
 </div>

diff --git a/about.html b/about.html
@@ -110,7 +110,7 @@ ul.task-list li input[type="checkbox"] {
     
 <!-- main -->
 <div class="quarto-about-jolla">
-  <img src="profile.jpg" class="about-image
+  <img src="headshot.jpg" class="about-image
   round " style="height: 15em; width: 15em;">
  <header id="title-block-header" class="quarto-title-block default">
 <div class="quarto-title">
@@ -125,15 +125,11 @@ ul.task-list li input[type="checkbox"] {
 </main> 
   <hr class="about-sep">
    <div class="about-links">
-  <a href="https://twitter.com" class="about-link">
+  <a href="https://twitter.com/JosephMaier29" class="about-link">
     <i class="bi bi-twitter"></i>
      <span class="about-link-text">Twitter</span>
   </a>
-  <a href="https://linkedin.com" class="about-link">
-    <i class="bi bi-linkedin"></i>
-     <span class="about-link-text">LinkedIn</span>
-  </a>
-  <a href="https://github.com" class="about-link">
+  <a href="https://jmaier29.github.io" class="about-link">
     <i class="bi bi-github"></i>
      <span class="about-link-text">Github</span>
   </a>
